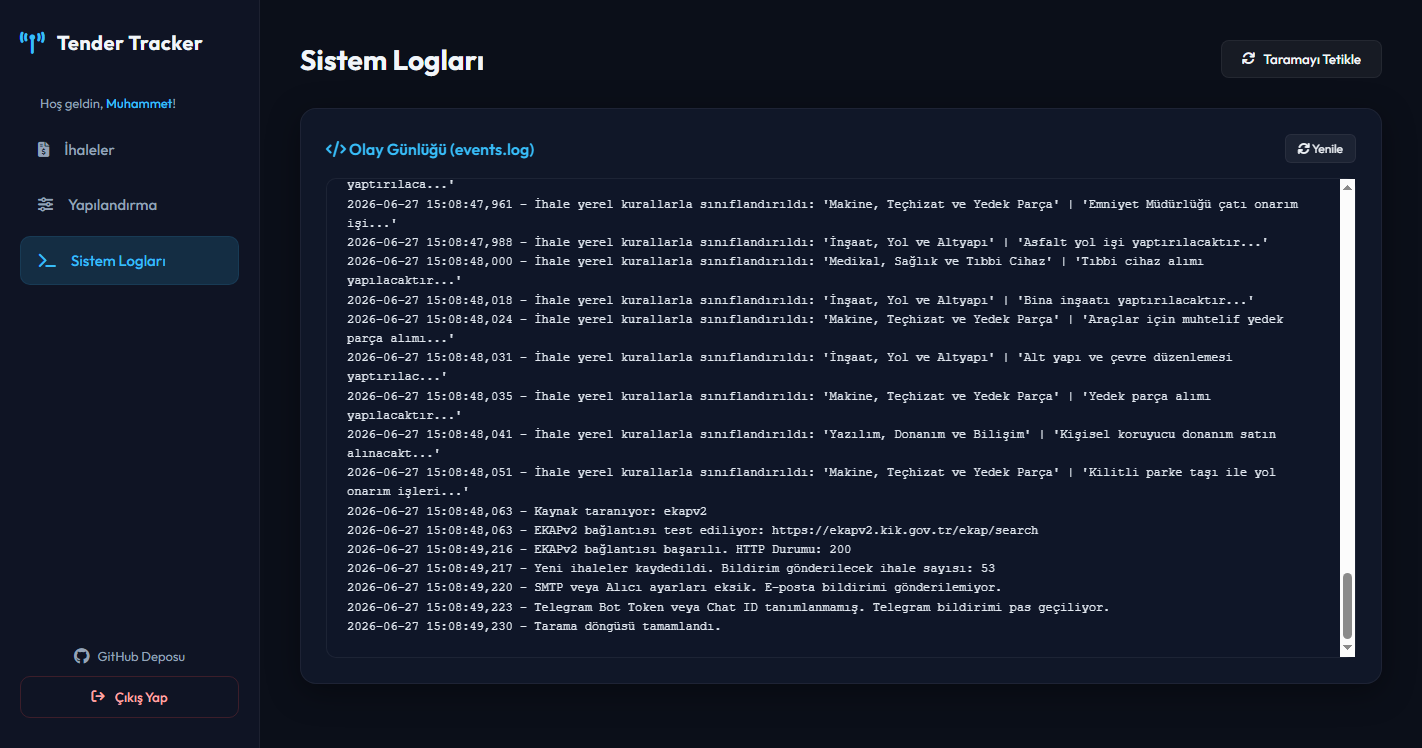
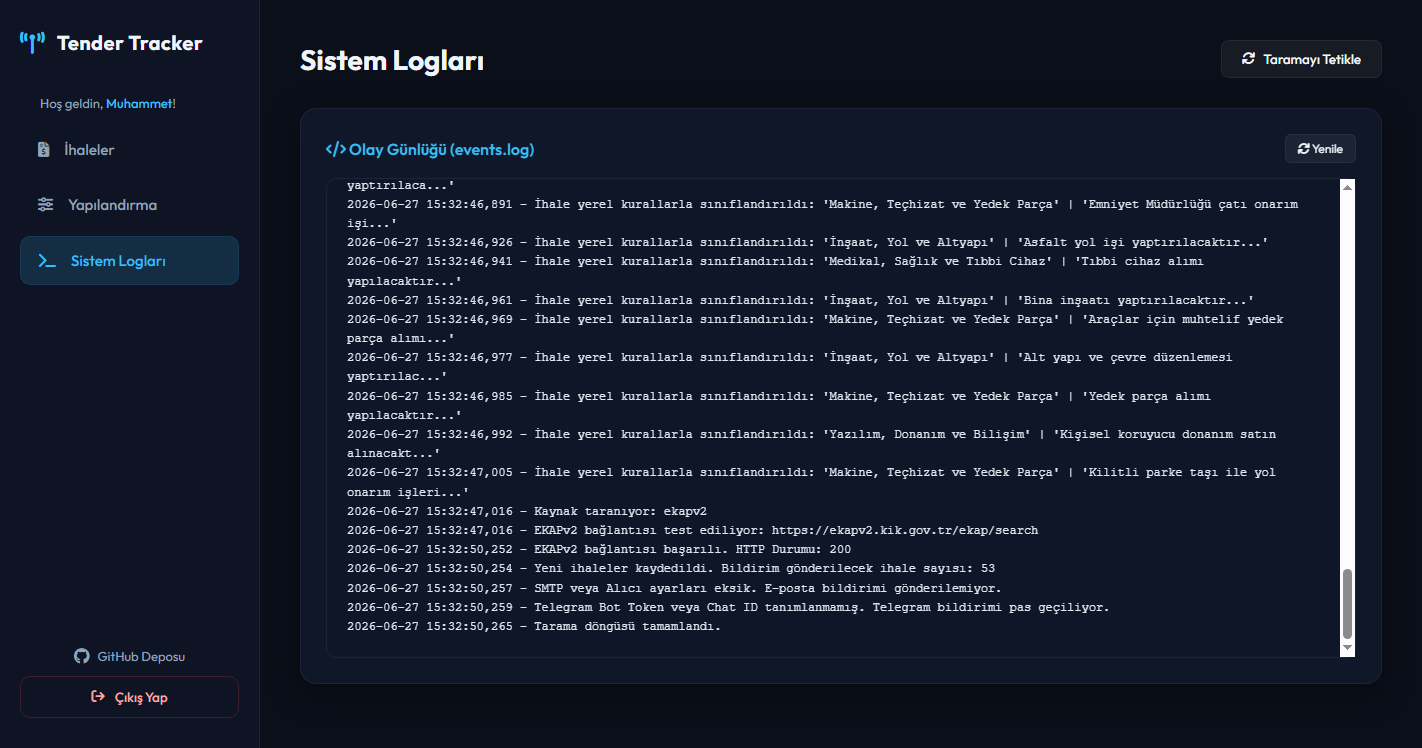
docs: finalize readme and screenshots with red dot badges and password button alignment changes

diff --git a/static/index.html b/static/index.html
@@ -73,7 +73,7 @@
             <nav>
                 <a href="/tenders" class="nav-item active" data-target="panel-tenders" style="position: relative;">
                     <i class="fa-solid fa-file-invoice-dollar"></i> İhaleler
-                    <span id="badge-tenders" class="badge d-none" style="position: absolute; right: 15px; top: 12px; background: var(--primary-color); color: #000; font-size: 10px; font-weight: 700; padding: 2px 6px; border-radius: 10px; box-shadow: 0 0 8px var(--primary-color);">0</span>
+                    <span id="badge-tenders" class="badge-dot d-none" style="position: absolute; right: 15px; top: 18px; width: 8px; height: 8px; background: #ef4444; border-radius: 50%; box-shadow: 0 0 8px #ef4444;" title="Yeni İhale Mevcut!"></span>
                 </a>
                 <a href="/config/general" class="nav-item" data-target="panel-config">
                     <i class="fa-solid fa-sliders"></i> Yapılandırma
@@ -390,7 +390,11 @@
                                 <label for="sec-confirm-pass">Yeni Şifre Tekrar</label>
                                 <input type="password" id="sec-confirm-pass" autocomplete="new-password">
                             </div>
-                            <button type="button" id="btn-change-password" class="btn-secondary">Şifreyi Değiştir</button>
+                            <div class="tab-actions">
+                                <button type="button" id="btn-change-password" class="btn-primary">
+                                    <i class="fa-solid fa-floppy-disk"></i> Şifreyi Güncelle
+                                </button>
+                            </div>
                         </div>
                     </form>
                 </div>

diff --git a/static/js/app.js b/static/js/app.js
@@ -412,7 +412,6 @@ document.addEventListener("DOMContentLoaded", () => {
             const badge = document.getElementById("badge-tenders");
             if (badge) {
                 badge.classList.add("d-none");
-                badge.textContent = "0";
             }
             loadTenders();
         } else if (targetPanelId === "panel-config") {
@@ -1339,7 +1338,6 @@ document.addEventListener("DOMContentLoaded", () => {
                 if (lastTenderCount !== null && currentTotal > lastTenderCount) {
                     const badge = document.getElementById("badge-tenders");
                     if (badge && activePanel !== "panel-tenders") {
-                        badge.textContent = currentTotal - lastTenderCount;
                         badge.classList.remove("d-none");
                     }
                 } else if (activePanel === "panel-tenders") {

diff --git a/README.md b/README.md
@@ -1,40 +1,49 @@
 # 📡 Tender Tracker
 
-### Automated Tender Ingestion, Hybrid Semantic Filtering, and Notification Engine
+### Automated Ingestion, Hybrid Filtering, and Intelligent Notification Engine
 
 ![Python](https://img.shields.io/badge/Python-3.12-3776AB?style=for-the-badge&logo=python&logoColor=white)
 ![FastAPI](https://img.shields.io/badge/FastAPI-0.109-009688?style=for-the-badge&logo=fastapi&logoColor=white)
 ![PyInstaller](https://img.shields.io/badge/PyInstaller-Executable-FF7F00?style=for-the-badge&logo=pyinstaller&logoColor=white)
-![Selenium](https://img.shields.io/badge/Selenium-WebDriver-43B02A?style=for-the-badge&logo=selenium&logoColor=white)
 ![SQLite](https://img.shields.io/badge/SQLite-Database-003B57?style=for-the-badge&logo=sqlite&logoColor=white)
+![Status](https://img.shields.io/badge/Status-Production_Ready-success?style=for-the-badge)
+
+> **Architectural Abstract:** A modular, enterprise-ready notification and intelligence platform designed to scrape, filter, classify, and notify tenders from public and corporate procurement portals. It features a two-stage hybrid filter (local rule-based suffix matching coupled with targeted Large Language Model evaluation), dynamic multi-theme Single Page Application dashboard, and a background scheduler running seamlessly from a Windows system tray utility.
+
+---
+
+## 📑 Table of Contents
+1. [Technical Evaluation / Teknik Değerlendirme](#-technical-evaluation--teknik-değerlendirme)
+2. [System Architecture](#-system-architecture)
+3. [Project Directory Structure](#-project-directory-structure)
+4. [Interface Showcases & Visual Walkthrough](#-interface-showcases--visual-walkthrough)
+5. [Installation, Setup & Deployment](#-installation-setup--deployment)
 
 ---
 
 ## 📌 Technical Evaluation / Teknik Değerlendirme
 
-### **TR | Teknik Değerlendirme ve Mimari Analiz**
-Tender Tracker, dağıtık ve heterojen kamu/özel ihale platformlarından (HTML, JSON API, SOAP/XML) asenkron veri toplama ve işleme mimarisi üzerine kurulmuştur.
-* **Veri Toplama Katmanı (Scraper Engine):**
-  * **EKAPv2:** Kik/EKAP altyapısındaki SSL/TLS el sıkışma katı kurallarını ve oturum limitlerini aşabilmek için özel bir `TLSAdapter` (üçüncü taraf şifreleme profillerini taklit eden) ve oturum (Session) yönetimi kullanır.
-  * **ilan.gov.tr:** HTTP web arayüzü yerine arka plandaki JSON API uç noktalarını doğrudan sorgulayarak veri trafiğini ve payload boyutunu optimize eder.
-  * **Yatırımlar Dergisi:** HTML tablolarını ve bülten formatını regex/BeautifulSoup ile ayrıştırarak yapılandırılmış SQLite satırlarına dönüştürür.
-* **İki Aşamalı Hibrit Sınıflandırma ve Hız/Token Optimizasyonu:**
-  * **1. Aşama (Kural Tabanlı Eleme):** İhaleler LLM'e gönderilmeden önce yerel kurallarla (pozitif/negatif anahtar kelimeler ve küresel yasaklı kelimeler) taranır. Eşleşme durumunda doğrudan sınıflandırılır (0ms gecikme, 0 token maliyeti).
-  * **2. Aşama (Öncelikli Sektör Eşli LLM Değerlendirmesi):** LLM süzgeçleri (Gemini, OpenAI, Claude) sadece belirli bir öncelikli sektörle eşleştirildiğinde tetiklenir. İhale o sektörde değilse LLM çağrısı yapılmaz. Bu sayede token maliyeti %90'a kadar düşürülür.
-* **Veritabanı Arka Plan Yeniden Değerlendirme (Re-evaluation):** Yeni bir LLM filtresi eklendiğinde, dış siteleri yeniden taramadan veritabanındaki ihaleler üzerinde asenkron (`threading.Thread`) arka plan oturumuyla LLM promptları çalıştırılarak veriler güncellenir.
-* **Dinamik Ön Yüz Routing & Tema Kontrolü:** Single Page Application (SPA) olarak tasarlanan ön yüzde History API yönlendirmesi kullanılır. 8 farklı renk teması desteği sunucudaki `config.yaml` ile senkronize çalışır.
+### **EN | Technical Evaluation and Pipeline Architecture**
+Tender Tracker is architected as an asynchronous data harvesting and processing pipeline optimized for tracking public and private tender platforms across Turkey.
+* **Asynchronous Scraper Engine:** 
+  * The system bypasses SSL/TLS handshake limitations on target public gateways by utilizing a custom `TLSAdapter` with custom cipher suites, maintaining persistent HTTP sessions.
+  * Web scraping routines query raw JSON API endpoints where available to minimize network payloads and speed up processing. Unstructured HTML data feeds are parsed using optimized regular expressions and BeautifulSoup tokenizers.
+* **Hybrid Two-Stage Filtering Strategy:**
+  * **Stage 1 (Rule-Based Matching):** Ingested tenders are parsed against local keyword definitions (positive/negative suffixes) and global exclusions. Tenders matching local criteria are categorized immediately (0ms latency, zero API token costs).
+  * **Stage 2 (Sector-Bound LLM Inference):** To optimize Large Language Model (LLM) query costs, custom prompt filters (Gemini, OpenAI, Claude) are bound to target sectors. The system only triggers LLM evaluation if a tender falls within the specified sector, decreasing monthly API costs by up to 90%.
+* **Database Background Re-evaluation:** 
+  To prevent re-hitting external websites when custom LLM filters are updated, the platform spawns background worker threads using dedicated database sessions to asynchronously evaluate already stored tenders locally.
 
-### **EN | Technical Evaluation and Architectural Analysis**
-Tender Tracker is designed as an asynchronous data ingestion and processing pipeline for harvesting opportunities from distributed and heterogeneous public/private tender platforms.
-* **Data Ingestion Layer (Scraper Engine):**
-  * **EKAPv2:** Employs a custom `TLSAdapter` mimicking specific cipher suites alongside persistent session management to bypass strict SSL/TLS handshakes and session limit constraints.
-  * **ilan.gov.tr:** Queries raw JSON backend API endpoints directly rather than parsing DOM trees, minimizing overhead and payload size.
-  * **Yatırımlar Dergisi:** Parses unstructured HTML newsletter tables into fully typed relational database models using optimized regex and BeautifulSoup tokenizers.
-* **Two-Stage Hybrid Classification & Cost/Latency Optimization:**
-  * **Stage 1 (Rule-Based Local Matching):** Tenders are evaluated against global exclusions and positive/negative sector keyword rules. Matches are instantly classified locally (0ms latency, zero token costs).
-  * **Stage 2 (Sector-Bound LLM Inference):** Custom LLM prompts (Gemini, OpenAI, Claude) are scoped to specific target sectors. The LLM API is only contacted if a tender lands in the corresponding sector, lowering monthly token consumption by up to 90%.
-* **Database Background Re-evaluation:** Adding or modifying LLM custom filters triggers a background async worker thread (`threading.Thread`) using dedicated database sessions. This re-evaluates previously imported tenders without requesting source websites again.
-* **Dynamic Frontend Routing & Theme Control:** Built as a modern SPA utilizing History API routing for clean URLs. Supports 8 color schemes synchronized natively with the backend `config.yaml`.
+### **TR | Teknik Değerlendirme ve Boru Hattı Mimarisi**
+Tender Tracker, Türkiye'deki kamu ve özel ihale platformlarından veri toplamak üzere optimize edilmiş asenkron bir veri toplama ve işleme boru hattı mimarisidir.
+* **Asenkron Tarayıcı Motoru:**
+  * Sistem, hedef kamu portallarındaki SSL/TLS el sıkışma sınırlamalarını, özel şifreleme süitleri barındıran bir `TLSAdapter` ve kalıcı HTTP oturumları kullanarak aşar.
+  * Ağ yükünü azaltmak amacıyla veri çekme işlemleri JSON API uç noktalarından doğrudan çekilir; yapılandırılmamış HTML bültenleri ise optimize edilmiş düzenli ifadeler ve BeautifulSoup kullanılarak SQLite modellerine dönüştürülür.
+* **Hibrit İki Aşamalı Filtreleme Stratejisi:**
+  * **1. Aşama (Kural Tabanlı Eşleşme):** İhaleler yerel sektörel kelimelere ve küresel yasaklı kelimelere göre taranır. Yerel kurallarla eşleşen ihaleler anında sınıflandırılır (0ms gecikme, sıfır token maliyeti).
+  * **2. Aşama (Sektör Sınırlı LLM Analizi):** Yapay Zeka maliyetlerini minimize etmek adına özel LLM süzgeçleri belirli sektörlerle eşleştirilir. LLM API çağrısı yalnızca ihale ilgili sektörle eşleştiğinde tetiklenir, böylece token tüketimi %90'a varan oranda düşürülür.
+* **Veritabanı Arka Plan Yeniden Değerlendirmesi:**
+  * Yeni bir LLM filtresi eklendiğinde veya promptlar değiştirildiğinde, dış kaynakları tekrar taramamak için sistem arka planda asenkron iş parçacıkları (`threading.Thread`) başlatarak kayıtlı ihaleleri yerel olarak yeniden analiz eder.
 
 ---
 
@@ -42,37 +51,37 @@ Tender Tracker is designed as an asynchronous data ingestion and processing pipe
 
 ```mermaid
 flowchart TD
-    subgraph WebSources["🌐 Source Web Platforms"]
+    subgraph WebSources["🌐 Public & Private Portals"]
         EKAP["EKAPv2 (TLSAdapter)"]
         ILAN["ilan.gov.tr (JSON API)"]
         YAT["Yatırımlar Dergisi (HTML)"]
         DMO["DMO Platform"]
     end
 
-    subgraph CoreEngine["🧠 Core Processing Engine"]
-        Scraper["Scheduler / Scraper Thread"]
+    subgraph CoreEngine["🧠 Processing & Filtering"]
+        Scraper["Scheduler / Scraper Engine"]
         DB[(SQLite Database)]
-        LocalFilter{"Stage 1: Local Rule Check<br/>(Exclude / Suffix Rules)"}
-        LLMFilter{"Stage 2: LLM Filter Check<br/>(Sector-Bound Prompts)"}
+        LocalFilter{"Stage 1: Local Rule Check<br/>(Exclude / Keyword Matching)"}
+        LLMFilter{"Stage 2: LLM Evaluation<br/>(Sector-Bound Prompting)"}
     end
 
-    subgraph Config["⚙️ Settings & Rules"]
-        CYAM["config.yaml (General & LLM)"]
-        SYAM["sectors.yaml (Local Rules)"]
+    subgraph Config["⚙️ Settings & Dynamic Configuration"]
+        CYAM["config.yaml (General & API Keys)"]
+        SYAM["sectors.yaml (Local Sector Rules)"]
     end
 
-    subgraph Outputs["📢 Notifications & Alerts"]
-        Mail["SMTP HTML Email Report"]
-        Telegram["Telegram HTML Bot Message"]
+    subgraph Outputs["📢 Target Notification Channels"]
+        Mail["SMTP HTML Email Reports"]
+        Telegram["Telegram HTML Bot Integration"]
     end
 
-    WebSources -->|Fetch Raw Data| Scraper
-    Scraper -->|Store / Sync| DB
+    WebSources -->|Fetch Raw Feeds| Scraper
+    Scraper -->|Relational Storage| DB
     DB --> LocalFilter
     CYAM & SYAM -.-> LocalFilter & LLMFilter
     LocalFilter -->|Passed & Sector Scoped| LLMFilter
     LocalFilter -->|Locally Matches Sector| Outputs
-    LLMFilter -->|Meets Semantic Prompts| Outputs
+    LLMFilter -->|Meets Semantic Rules| Outputs
 ```
 
 ---
@@ -82,82 +91,120 @@ flowchart TD
 ```
 tender-tracker/
 │
-├── .github/workflows/           # CI/CD workflows (PyInstaller build pipeline)
-├── screenshots/                 # Application interface screenshots
-├── src/                         # Python backend source files
-│   ├── classifier.py            # Hybrid classification rules & LLM handlers
-│   ├── database.py              # SQLite database models & sessions
-│   ├── filter.py                # Local suffix matching and exclusions
-│   ├── scheduler.py             # Background tasks runner & scraper timers
-│   └── scrapers/                # Scraper modules (EKAP, DMO, ilan.gov.tr, vb.)
+├── .github/workflows/           # CI/CD pipelines (PyInstaller remote runner)
+├── screenshots/                 # Application dashboard captures
+├── src/                         # Backend source files
+│   ├── classifier.py            # AI (Gemini, OpenAI, Claude) and Rule engine
+│   ├── database.py              # SQLite configuration and schema models
+│   ├── filter.py                # Local suffix matching and exclusion rules
+│   ├── scheduler.py             # Background timer scheduler
+│   └── scrapers/                # Web scraping scripts
 │
-├── static/                      # Web dashboard frontend assets
-│   ├── index.html               # Single Page Application HTML markup
-│   ├── css/                     # Vanilla CSS style sheets
-│   └── js/                      # app.js routing & user event logic
+├── static/                      # Frontend single page application
+│   ├── index.html               # Main dashboard UI
+│   ├── css/                     # Vanilla CSS style guide
+│   └── js/                      # App routing and UI interactive logic
 │
 ├── app.py                       # FastAPI application & server REST endpoints
-├── run.py                       # System entry point (Topshelf Tray Icon & App)
-├── build.py                     # Local standalone compilation runner
-├── config.yaml                  # System configuration (API keys, ports, SMTP)
-└── sectors.yaml                 # Rules & keywords database
+├── run.py                       # System entry point (Windows System Tray App)
+├── build.py                     # Portable PyInstaller executable compiler
+├── config.yaml                  # System credentials and server configurations
+└── sectors.yaml                 # Sector definitions and keywords dictionary
 ```
 
 ---
 
-## 📸 Screenshots (Arayüz Panelleri)
+## 📸 Interface Showcases & Visual Walkthrough
 
-### 1. Aktif İhaleler Paneli
-Sistem tarafından taranıp sınıflandırılan tüm ihalelerin listelendiği, sektöre ve kaynağa göre filtrelenebildiği ana ekrandır.
+### 1. Active Tenders Tab (Aktif İhaleler Paneli)
+
+This is the main application interface displaying all tenders harvested from the enabled sources. Users can view the titles, publication dates, and source platform tags, as well as apply client-side text searches and filter results dynamically by sector or active custom smart filters. A real-time notification indicator flashes in the sidebar if new matches are detected while away.
+
 ![Aktif İhaleler](screenshots/tenders.png)
 
-### 2. Arayüz Renk Temaları (4'lü Birleşik Görünüm)
-Uygulama; sunucu tarafı `config.yaml` ile tam senkronize çalışan 8 farklı renk temasına sahiptir. Aşağıda Turkuaz (Cyan), Zümrüt (Emerald), Turuncu (Sunset) ve Mor (Purple) temalarının birleşik görünümü yer almaktadır:
+<br/>
+
+### 2. Multi-Theme Configurator (Arayüz Renk Temaları)
+
+The system configuration panel features a responsive interface theme selector. Users can switch between 8 pre-designed color palettes (Turkuaz, Zümrüt, Turuncu, Mor, Gül, Kehribar, Gümüş, Kırmızı) dynamically. The chosen theme settings are written to the server's configuration file in real-time, preserving style selections across system restarts.
+
 ![Arayüz Renk Temaları](screenshots/config_general.png)
 
-### 3. Akıllı Süzgeçler (LLM Prompts) ve Yeniden Değerlendirme Paneli
-Yapay zeka analizinde kullanılacak olan prompt yönergelerinin tanımlandığı, öncelikli sektöre bağlanabildiği ve veritabanındaki ihalelerin arka planda yeniden süzgeçten geçirilmesini sağlayan sekmedir.
+<br/>
+
+### 3. Custom AI Filters & Re-evaluation (Akıllı Süzgeçler)
+
+This panel allows users to create targeted LLM evaluation prompts. By scoping a prompt to a specific sector, you can control where the LLM evaluates the tender description, optimizing response times and token costs. The "Yeniden Değerlendir" button triggers an asynchronous background thread that applies newly created custom prompt rules to the existing SQLite database.
+
 ![Akıllı Süzgeçler](screenshots/config_filters.png)
 
-### 4. Sektörler ve Küresel Yasaklı Kelimeler Paneli
-İşletmenizin faaliyet alanlarına göre pozitif/negatif kelimelerin ve ihaleleri tamamen eleyen küresel yasaklı kelimelerin en üstte sabit kart olarak yönetildiği alandır.
+<br/>
+
+### 4. Sectors & Global Exclusion Manager (Sektörler ve Küresel Süzgeçler)
+
+Sectors are managed as collapsible cards showing positive matching suffixes and negative exclusion keywords. In addition, a static, editable card at the very top provides control over global exclusion phrases. Tenders containing any global negative keywords are filtered out immediately during stage 1 before being logged.
+
 ![Sektörler ve Filtreler](screenshots/config_sectors.png)
 
-### 5. Bildirim Ayarları Paneli
-SMTP e-posta gönderici/alıcı bilgileri ve Telegram Bot entegrasyonu (Token, Chat ID) bilgileri bu sekmeden düzenlenir.
+<br/>
+
+### 5. SMTP and Telegram Settings (Bildirim Entegrasyonu)
+
+From this tab, the user configures SMTP mail delivery parameters and Telegram bot variables (Token and Chat ID). Tenders that pass the classification checks are grouped by sector and sent immediately. System logs will warn of missing credentials if fields are left blank.
+
 ![Bildirim Ayarları](screenshots/config_notifications.png)
 
-### 6. Sistem Logları Paneli
-Arka planda çalışan tarayıcı botun ve sunucunun log kayıtlarını (hata ve durum analizleri) canlı olarak takip edebileceğiniz konsoldur.
+<br/>
+
+### 6. System Logs Terminal (Olay Günlüğü)
+
+Provides an inline terminal window rendering the last 100 entries of the server log file (`events.log`). It displays active scraping cycles, classification steps, and connection errors, and is useful for real-time diagnostics. If an error is caught, a blinking warning dot appears next to the logs link on the sidebar menu.
+
 ![Sistem Logları](screenshots/logs.png)
 
 ---
 
-## 🚀 Kurulum ve Kullanım (Usage Guide)
+## 🚀 Installation, Setup & Deployment
 
-### 1. Lokal Geliştirme (Python ile Çalıştırma)
-Sistemi yerel Python ortamınızda test etmek için şu adımları izleyin:
-```bash
-# Depoyu klonlayın
-git clone https://github.com/isikmuhamm/tender-tracker.git
-cd tender-tracker
+### 1. Local Environment Setup (Python)
+To run the server and task scheduler natively from Python:
+1. Clone the repository:
+   ```bash
+   git clone https://github.com/isikmuhamm/tender-tracker.git
+   cd tender-tracker
+   ```
+2. Create and activate a virtual environment:
+   ```bash
+   python -m venv venv
+   # On Windows:
+   venv\Scripts\activate
+   # On macOS/Linux:
+   source venv/bin/activate
+   ```
+3. Install required packages:
+   ```bash
+   pip install -r requirements.txt
+   ```
+4. Run the tray controller app:
+   ```bash
+   python run.py
+   ```
+*Access the local web panel at `http://127.0.0.1:8000` from your browser.*
 
-# Bağımlılıkları yükleyin
-pip install -r requirements.txt
+### 2. PyInstaller Standalone Compilation
+To compile the system into a single executable that operates without Python dependencies:
+1. Run the build script:
+   ```bash
+   python build.py
+   ```
+2. Retrieve the finished executable binary from the newly generated `dist/` directory:
+   * **Windows:** `dist/tender-tracker.exe`
 
-# Uygulamayı başlatın (Sistem tepsisinde çalışacaktır)
-python run.py
-```
-Arayüze erişmek için tarayıcınızdan `http://127.0.0.1:8000` adresine gidin.
-
-### 2. PyInstaller ile Tekil (.exe) Derleme
-Uygulamayı harici bağımlılıklara ihtiyaç duymadan çalıştırılabilen tek bir `.exe` dosyası haline getirmek için:
-```bash
-python build.py
-```
-Derleme işlemi tamamlandığında standalone dosyanız `dist/tender-tracker.exe` konumunda hazır olacaktır.
-
-### 3. Sorun Giderme (Troubleshooting)
-* **Windows SmartScreen / Defender Uyarısı:** Dijital sertifika imzası olmadığı için uyarı verebilir. *"Ek Bilgi"* kısmına tıklayıp *"Yine de Çalıştır"* seçeneğini seçin.
-* **Port Çakışması:** Port `8000` kullanımdaysa `config.yaml` dosyasını açıp `server_port` değerini boşta olan başka bir portla (örneğin `8085`) değiştirin.
-* **Veriler ve Veritabanı:** Uygulama tamamen taşınabilir (portable) çalışır. `tenders.db`, `events.log` ve yapılandırma dosyaları `.exe` dosyasıyla aynı dizinde oluşturulur.
+### 3. Troubleshooting Guide
+* **Windows Defender / SmartScreen Warnings:** Because the standalone binary lacks an expensive commercial digital certificate, Windows Defender might identify it as untrusted. Click *"More Info"* on the popup window and select *"Run Anyway"* to start the system.
+* **Server Port Conflicts:** By default, the FastAPI web panel runs on port `8000`. If this port is occupied by another application, open the local `config.yaml` with a text editor, change the value of `server_port` to an open port (e.g. `8085`), and restart.
+* **Portable Directory Structure:** All active configurations, logs, and database records reside inside the directory containing the executable:
+  * `tenders.db` (SQLite records)
+  * `events.log` (Diagnostic outputs)
+  * `config.yaml` / `sectors.yaml` (Active parameters)
+  You can move the app to a different workstation by copying the `.exe` file along with these configuration and database files.